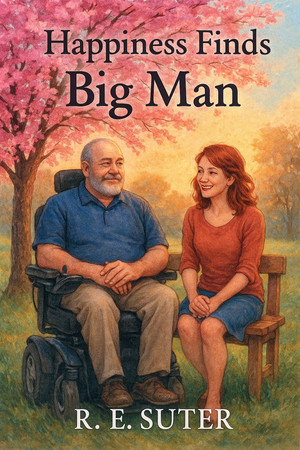
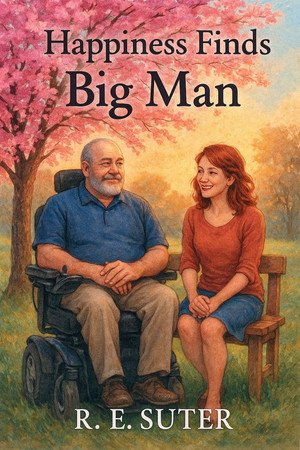
Convert large PNG covers to optimized JPGs (1.2MB -> ~80KB each); fix broken book covers

diff --git a/index.html b/index.html
@@ -1013,7 +1013,7 @@ var books = [
         subtitle: "The Salvager Series, Book 1",
         genre: "Fiction / Thriller",
         price: "$3.99",
-        cover: "covers/book1-sisters-plea.png",
+        cover: "covers/book1-sisters-plea.jpg",
         description: "When Claire Whitman asks Zeke Carter to find her brother Marcus, she sets in motion a tense, atmospheric thriller about manipulation, belonging, and the cost of saving people who have to choose to be saved.",
         bestseller: false,
         payhip_url: "https://wordsandwheels.net/b/LT8JN"
@@ -1157,7 +1157,7 @@ But she didn't tear it up either.`
         subtitle: "The Salvager Series, Book 3",
         genre: "Fiction / Thriller",
         price: "$3.99",
-        cover: "covers/book3-network.png",
+        cover: "covers/book3-network.jpg",
         description: "When Evan Rourke returns from six weeks missing speaking of 'borrowed clarity,' Zeke Carter recognizes the signs of a precision-engineered manipulation network.",
         bestseller: false,
         payhip_url: "https://wordsandwheels.net/b/gJn2b"
